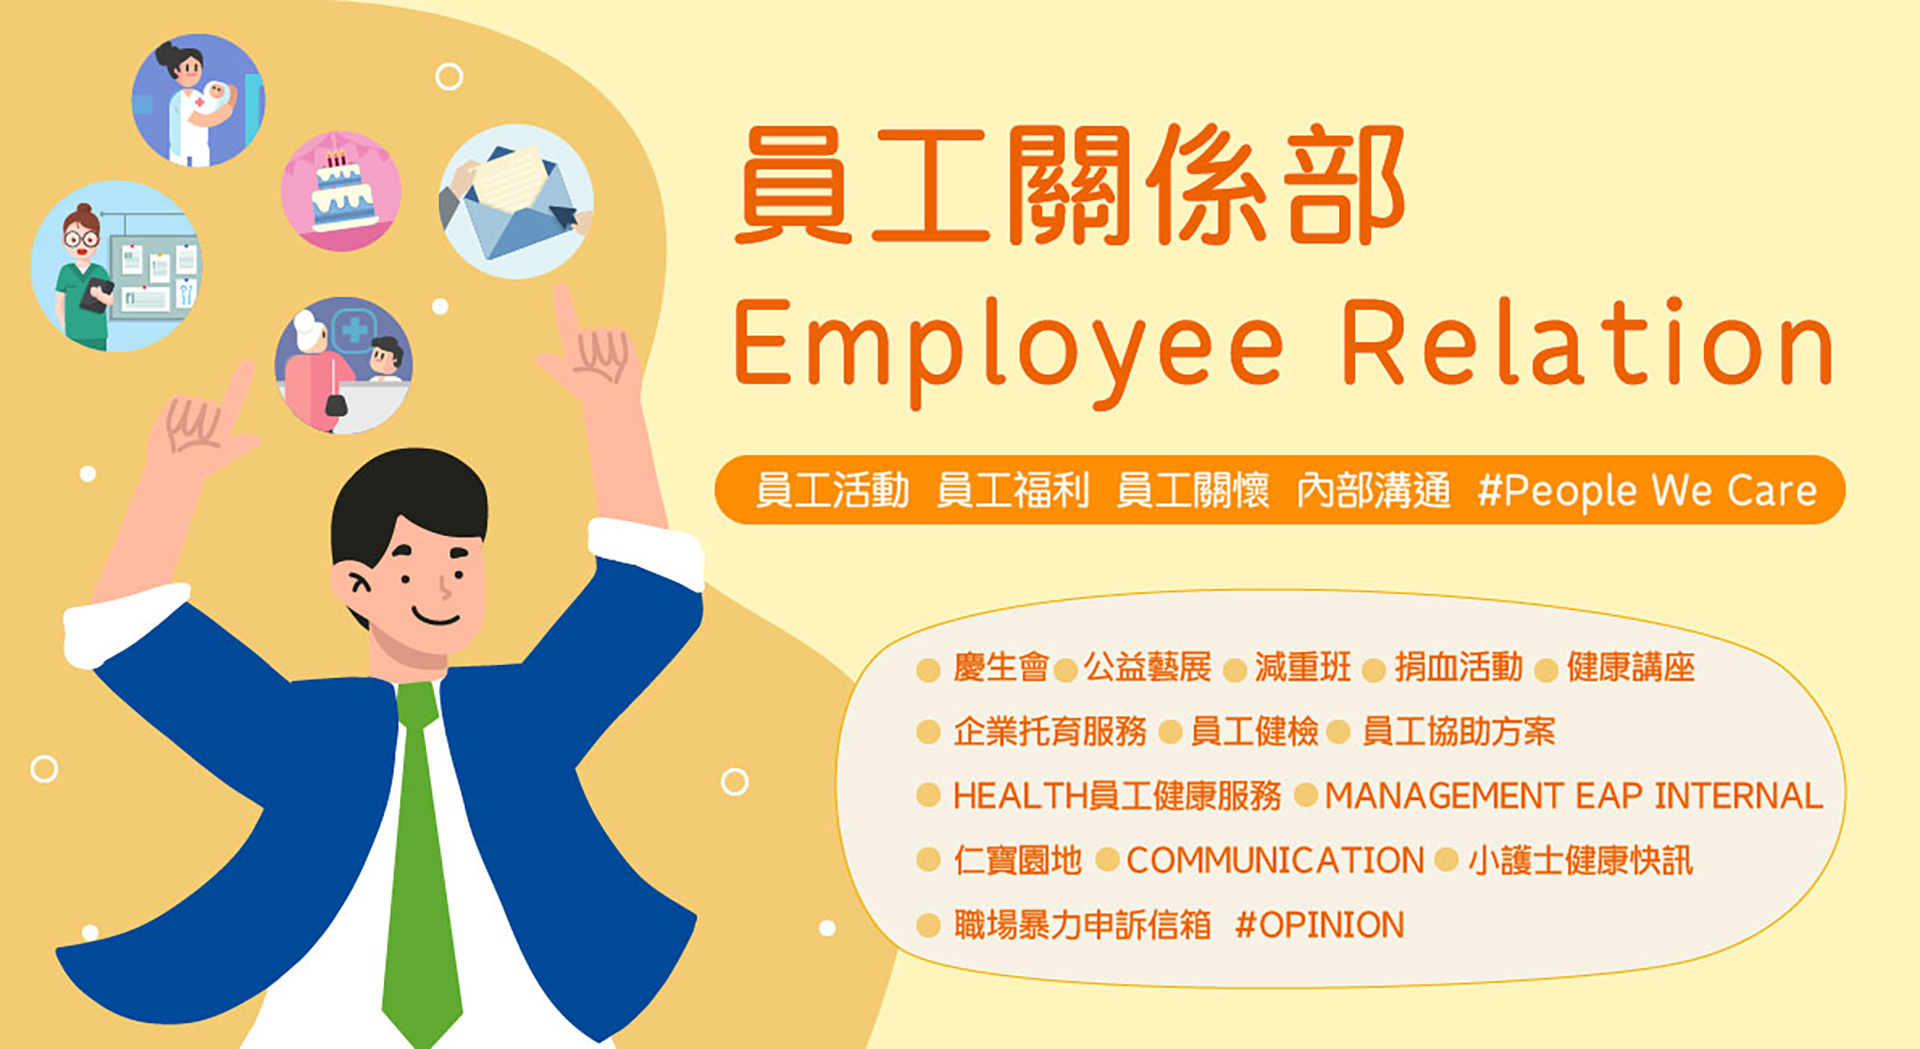
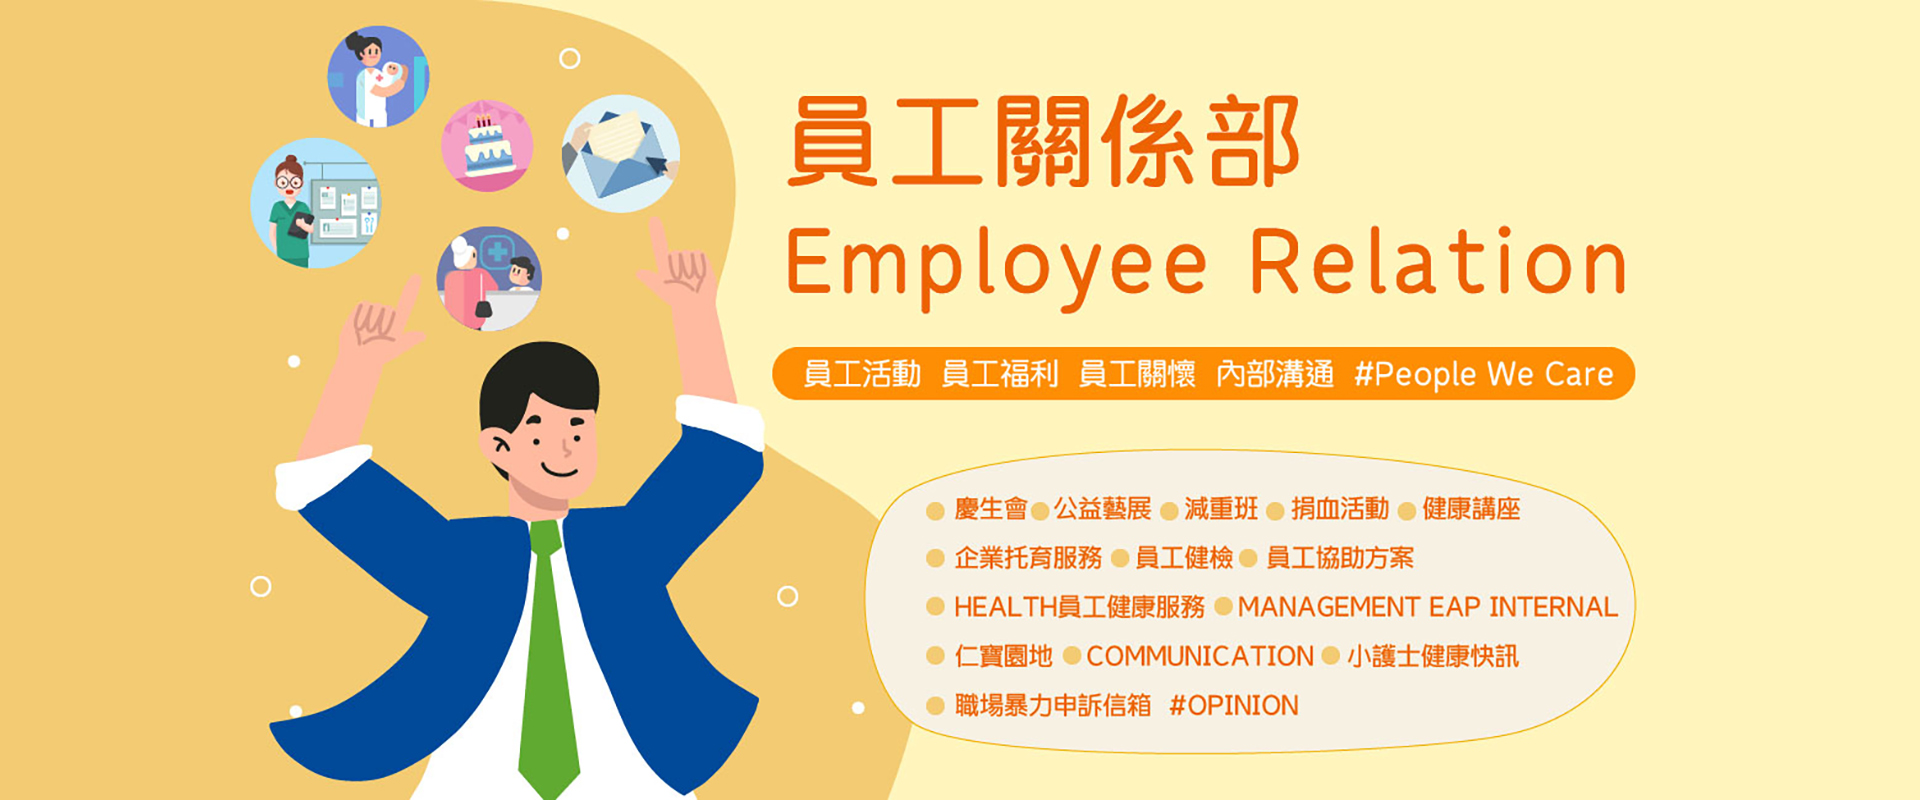
27

diff --git a/index.html b/index.html
@@ -112,7 +112,7 @@ function MM_swapImage() { //v3.0
     <div class="poto_test"><img src="images/poto_test.png" alt="First slide" width="500" height="177" /></div>
     -->
 		<div class="item active">
-			<img src="images/topimage/003.jpg" alt="First slide" width="1920" height="1049" />
+			<img src="images/topimage/003.jpg" alt="First slide" width="1920" height="800" />
             <!--
             <div class="carousel-caption"><font size="+2"><b>林心雅│季節變換</b></font></div>
             -->
